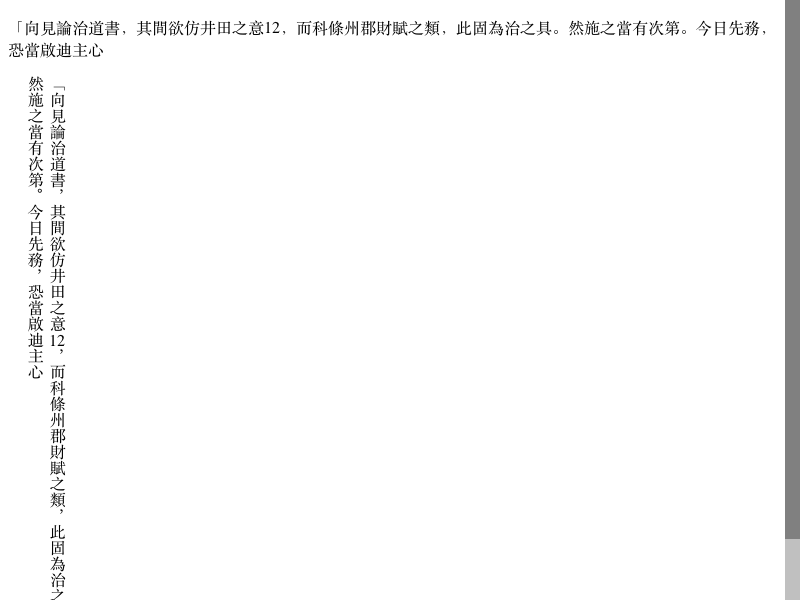
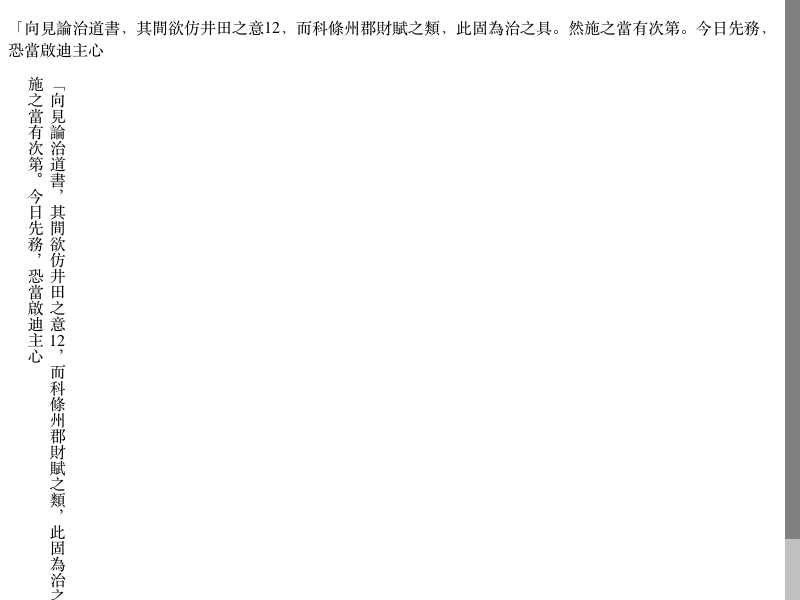
Merge r192269. rdar://problem/23189742
git-svn-id: http://svn.webkit.org/repository/webkit/branches/safari-601.1.46-branch@192429 268f45cc-cd09-0410-ab3c-d52691b4dbfc

diff --git a/Source/WebCore/rendering/RenderCombineText.cpp b/Source/WebCore/rendering/RenderCombineText.cpp
@@ -107,10 +107,14 @@ void RenderCombineText::combineText()
     glyphOverflow.computeBounds = true;
     
     float combinedTextWidth = width(0, textLength(), originalFont(), 0, nullptr, &glyphOverflow);
+
+    float bestFitDelta = combinedTextWidth - emWidth;
+    auto bestFitDescription = description;
+
     m_isCombined = combinedTextWidth <= emWidth;
     
     FontSelector* fontSelector = style().fontCascade().fontSelector();
-
+    
     if (m_isCombined)
         shouldUpdateFont = m_combineFontStyle->setFontDescription(description); // Need to change font orientation to horizontal.
     else {
@@ -122,6 +126,7 @@ void RenderCombineText::combineText()
             FontCascade compressedFont(description, style().fontCascade().letterSpacing(), style().fontCascade().wordSpacing());
             compressedFont.update(fontSelector);
             
+            glyphOverflow.left = glyphOverflow.top = glyphOverflow.right = glyphOverflow.bottom = 0;
             float runWidth = RenderText::width(0, textLength(), compressedFont, 0, nullptr, &glyphOverflow);
             if (runWidth <= emWidth) {
                 combinedTextWidth = runWidth;
@@ -131,11 +136,36 @@ void RenderCombineText::combineText()
                 shouldUpdateFont = m_combineFontStyle->setFontDescription(description);
                 break;
             }
+            
+            float widthDelta = runWidth - emWidth;
+            if (widthDelta < bestFitDelta) {
+                bestFitDelta = widthDelta;
+                bestFitDescription = description;
+            }
         }
     }
 
-    if (!m_isCombined)
-        shouldUpdateFont = m_combineFontStyle->setFontDescription(originalFont().fontDescription());
+    if (!m_isCombined) {
+        float scaleFactor = std::max(0.4f, emWidth / (emWidth + bestFitDelta));
+        float originalSize = bestFitDescription.computedSize();
+        do {
+            float computedSize = originalSize * scaleFactor;
+            bestFitDescription.setComputedSize(computedSize);
+            shouldUpdateFont = m_combineFontStyle->setFontDescription(bestFitDescription);
+        
+            FontCascade compressedFont(bestFitDescription, style().fontCascade().letterSpacing(), style().fontCascade().wordSpacing());
+            compressedFont.update(fontSelector);
+            
+            glyphOverflow.left = glyphOverflow.top = glyphOverflow.right = glyphOverflow.bottom = 0;
+            float runWidth = RenderText::width(0, textLength(), compressedFont, 0, nullptr, &glyphOverflow);
+            if (runWidth <= emWidth) {
+                combinedTextWidth = runWidth;
+                m_isCombined = true;
+                break;
+            }
+            scaleFactor -= 0.05f;
+        } while (scaleFactor >= 0.4f);
+    }
 
     if (shouldUpdateFont)
         m_combineFontStyle->fontCascade().update(fontSelector);
